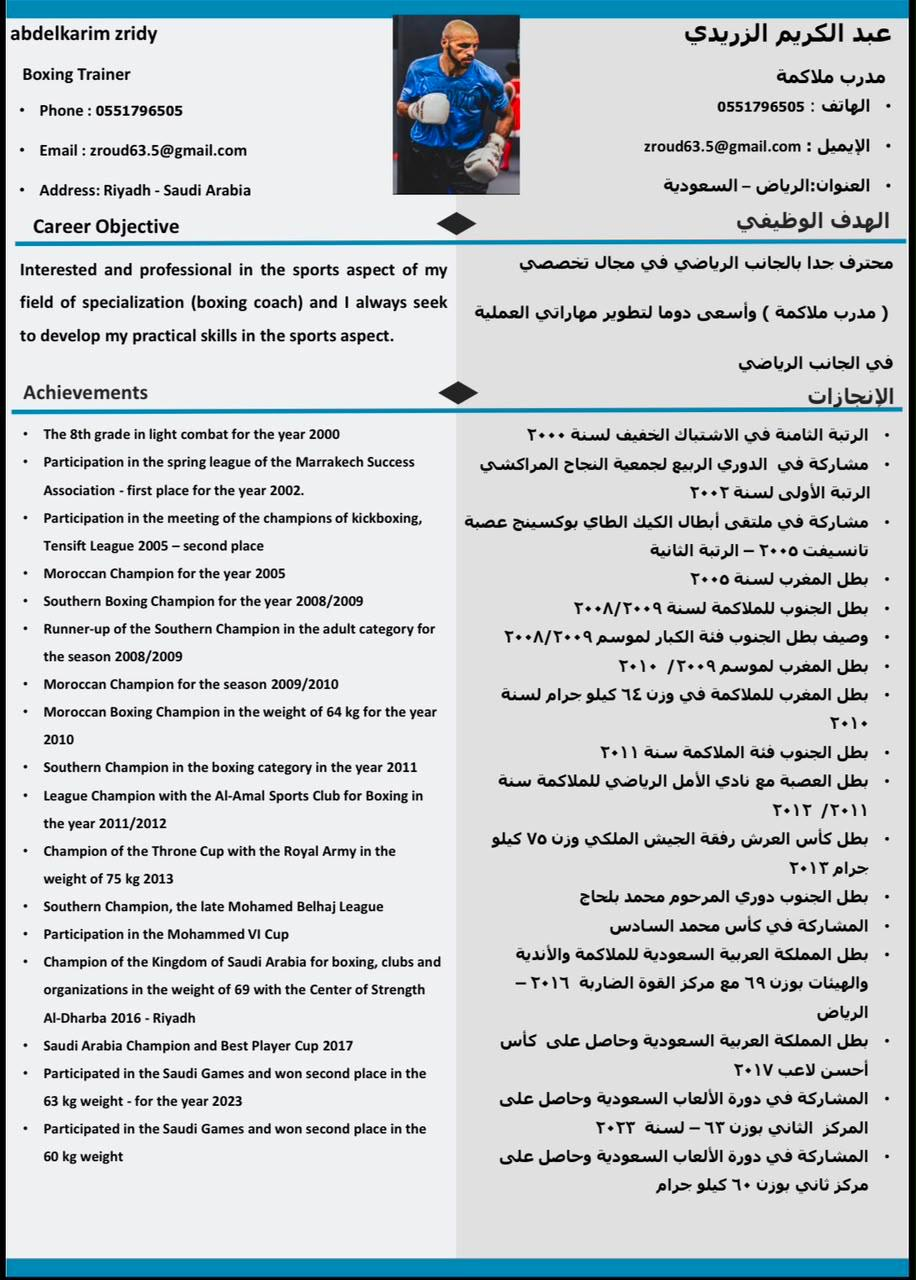
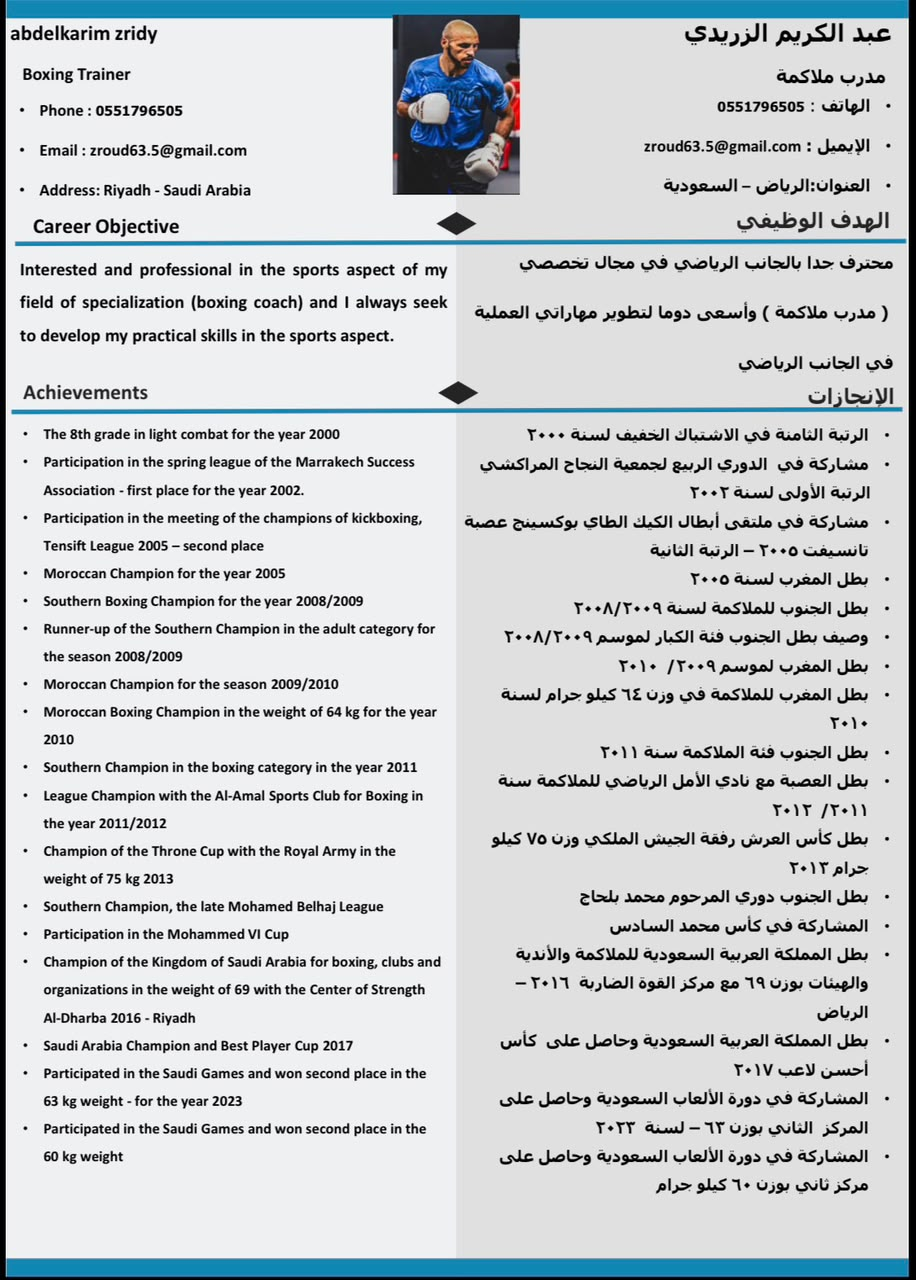
docs(assets): preserve supplied club and coach source references

Changed region(s): [[0.4585, 0.0, 0.5197, 0.0625]]

diff --git a/assets/source/README.md b/assets/source/README.md
@@ -1,0 +1,7 @@
+# Source assets
+
[1 lines of base64/hex data omitted]
+
[1 lines of base64/hex data omitted]
+
+The public site uses the coach portrait and relevant professional achievements. The biography document is a source reference; personal contact details are not copied into the coach card. `inventory.csv` records the original repository asset audit.
